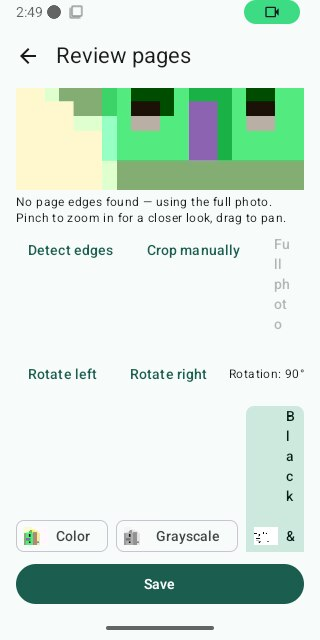
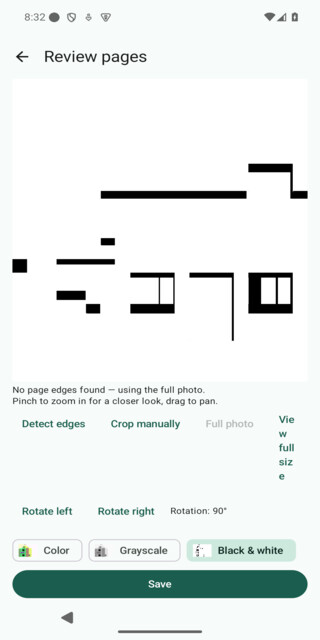
fix(review): show the selected filter in the crop preview
CropEditor's main preview only ever applied rotation, never the
page's selected filter — so choosing Grayscale or Black & white
changed the small filter-chip icon (keepsheet#49) but never the
large preview a person actually looks at, which stayed in color
regardless of what was picked. The saved PDF was always correct
(ImagesToPdf already applied the filter there); this was a preview-
only bug.

Applies to both the crop preview and the full-screen viewer (#67),
so the two stay consistent with each other and with what gets saved.

Fixes #70

diff --git a/android/app/src/main/java/com/github/tomasbjerre/keepsheet/ui/CropEditor.kt b/android/app/src/main/java/com/github/tomasbjerre/keepsheet/ui/CropEditor.kt
@@ -1,5 +1,6 @@
 package com.github.tomasbjerre.keepsheet.ui
 
+import android.graphics.Bitmap
 import android.net.Uri
 import androidx.compose.foundation.Canvas
 import androidx.compose.foundation.gestures.awaitEachGesture
@@ -29,8 +30,10 @@ import androidx.compose.ui.platform.testTag
 import androidx.compose.ui.unit.IntOffset
 import androidx.compose.ui.unit.IntSize
 import androidx.compose.ui.unit.dp
+import com.github.tomasbjerre.keepsheet.data.PageFilter
 import com.github.tomasbjerre.keepsheet.pdf.Corners
 import com.github.tomasbjerre.keepsheet.pdf.Point
+import com.github.tomasbjerre.keepsheet.pdf.applyFilter
 import com.github.tomasbjerre.keepsheet.pdf.applyRotation
 import com.github.tomasbjerre.keepsheet.pdf.decodeScaled
 import kotlinx.coroutines.Dispatchers
@@ -49,9 +52,10 @@ private const val GRAB_RADIUS_DP = 40
  * each corner can be dragged to adjust it. With null [corners] (nothing detected, or the
  * user chose the full photo) the whole photo is shown with no overlay.
  *
- * [rotationDegrees] (specs/capture-and-processing.md#page-rotation) is applied to the
- * preview itself, not just remembered — the whole point of showing it live here is that
- * what will be applied to the saved page is never a guess (keepsheet#52).
+ * [rotationDegrees] (specs/capture-and-processing.md#page-rotation) and [filter]
+ * (specs/capture-and-processing.md#document-filters) are both applied to the preview
+ * itself, not just remembered — the whole point of showing it live here is that what will
+ * be applied to the saved page is never a guess (keepsheet#52, keepsheet#70).
  *
  * Pinch-to-zoom and drag-to-pan (keepsheet#53) let a person inspect fine detail — e.g. whether
  * a filter choice keeps a photo on the page legible — without that detail being too small to
@@ -64,20 +68,23 @@ private const val GRAB_RADIUS_DP = 40
  * that changes what's being looked at) — a leftover zoomed-in viewport on a freshly shown image
  * would be confusing, not helpful.
  */
+@Suppress("LongMethod") // Compose screen: state hoisting keeps this one flat function readable.
 @Composable
 fun CropEditor(
     uri: Uri,
     corners: Corners?,
     rotationDegrees: Int,
+    filter: PageFilter,
     onCornersChange: (Corners) -> Unit,
     modifier: Modifier = Modifier,
 ) {
     val resolver = LocalContext.current.contentResolver
-    val image by produceState<ImageBitmap?>(null, uri, rotationDegrees) {
+    val image by produceState<ImageBitmap?>(null, uri, rotationDegrees, filter) {
         value =
             withContext(Dispatchers.IO) {
                 decodeScaled(resolver, uri, PREVIEW_MAX_SIDE)
                     ?.let { applyRotation(it, rotationDegrees) }
+                    ?.let { filtered(it, filter) }
                     ?.asImageBitmap()
             }
     }
@@ -225,4 +232,21 @@ private fun nearestCorner(
             }.orEmpty()
     val nearest = distances.indices.minByOrNull { distances[it] } ?: return -1
     return if (distances[nearest] <= maxDistance) nearest else -1
+}
+
+/** [PageFilter.COLOR] is a no-op (see [applyFilter]) — skip the pixel round-trip entirely
+ * for it rather than decode/re-encode a bitmap that ends up unchanged. Internal rather than
+ * private: [PhotoViewerDialog] reuses this same bitmap-filtering step. */
+internal fun filtered(
+    bitmap: Bitmap,
+    filter: PageFilter,
+): Bitmap {
+    if (filter == PageFilter.COLOR) return bitmap
+    val width = bitmap.width
+    val height = bitmap.height
+    val pixels = IntArray(width * height)
+    bitmap.getPixels(pixels, 0, width, 0, 0, width, height)
+    bitmap.recycle()
+    applyFilter(pixels, width, height, filter)
+    return Bitmap.createBitmap(pixels, width, height, Bitmap.Config.ARGB_8888)
 }

diff --git a/android/app/src/main/java/com/github/tomasbjerre/keepsheet/ui/PhotoViewer.kt b/android/app/src/main/java/com/github/tomasbjerre/keepsheet/ui/PhotoViewer.kt
@@ -37,6 +37,7 @@ import androidx.compose.ui.unit.IntSize
 import androidx.compose.ui.unit.dp
 import androidx.compose.ui.window.Dialog
 import androidx.compose.ui.window.DialogProperties
+import com.github.tomasbjerre.keepsheet.data.PageFilter
 import com.github.tomasbjerre.keepsheet.pdf.applyRotation
 import com.github.tomasbjerre.keepsheet.pdf.decodeScaled
 import kotlinx.coroutines.Dispatchers
@@ -51,24 +52,26 @@ private const val VIEWER_MAX_SIDE = 2000
  * keepsheet#67) — opened from [CropSection]'s "View full size" action. Same pinch-to-zoom
  * and drag-to-pan as [CropEditor]'s preview (reusing its pure [clampZoomScale]/
  * [clampPanOffset] math), but with no crop overlay and nothing to grab, so there's no risk
- * of moving a crop corner while just looking closely at a page. [rotationDegrees] matches
- * whatever's currently shown in the crop preview, so this is the exact same image, just
- * bigger — not a guess at what the saved page will look like.
+ * of moving a crop corner while just looking closely at a page. [rotationDegrees] and
+ * [filter] match whatever's currently shown in the crop preview, so this is the exact same
+ * image, just bigger — not a guess at what the saved page will look like.
  */
 @Composable
 fun PhotoViewerDialog(
     uri: Uri,
     rotationDegrees: Int,
+    filter: PageFilter,
     onDismiss: () -> Unit,
 ) {
     Dialog(onDismissRequest = onDismiss, properties = DialogProperties(usePlatformDefaultWidth = false)) {
         val resolver = LocalContext.current.contentResolver
         val image by
-            produceState<ImageBitmap?>(null, uri, rotationDegrees) {
+            produceState<ImageBitmap?>(null, uri, rotationDegrees, filter) {
                 value =
                     withContext(Dispatchers.IO) {
                         decodeScaled(resolver, uri, VIEWER_MAX_SIDE)
                             ?.let { applyRotation(it, rotationDegrees) }
+                            ?.let { filtered(it, filter) }
                             ?.asImageBitmap()
                     }
             }

diff --git a/android/app/src/main/java/com/github/tomasbjerre/keepsheet/ui/PageReviewScreen.kt b/android/app/src/main/java/com/github/tomasbjerre/keepsheet/ui/PageReviewScreen.kt
@@ -174,6 +174,7 @@ fun PageReviewScreen(
                     uri = pageOrder[selected],
                     corners = corners[selected],
                     rotationDegrees = rotations[selected],
+                    filter = filters[selected],
                     detecting = detecting,
                     onCornersChange = { corners = corners.toMutableList().also { list -> list[selected] = it } },
                     onRedetect = {
@@ -343,11 +344,13 @@ private fun redetect(
     scope.launch { onFound(withContext(Dispatchers.IO) { detectCornersInImage(resolver, uri) }) }
 }
 
+@Suppress("LongParameterList")
 @Composable
 private fun CropSection(
     uri: Uri,
     corners: Corners?,
     rotationDegrees: Int,
+    filter: PageFilter,
     detecting: Boolean,
     onCornersChange: (Corners?) -> Unit,
     onRedetect: () -> Unit,
@@ -359,6 +362,7 @@ private fun CropSection(
             uri = uri,
             corners = corners,
             rotationDegrees = rotationDegrees,
+            filter = filter,
             onCornersChange = { onCornersChange(it) },
         )
         Text(
@@ -385,7 +389,12 @@ private fun CropSection(
         RotateControls(rotationDegrees = rotationDegrees, onRotate = onRotate)
     }
     if (showViewer) {
-        PhotoViewerDialog(uri = uri, rotationDegrees = rotationDegrees, onDismiss = { showViewer = false })
+        PhotoViewerDialog(
+            uri = uri,
+            rotationDegrees = rotationDegrees,
+            filter = filter,
+            onDismiss = { showViewer = false },
+        )
     }
 }
 

diff --git a/android/app/src/androidTest/java/com/github/tomasbjerre/keepsheet/ScreenshotTest.kt b/android/app/src/androidTest/java/com/github/tomasbjerre/keepsheet/ScreenshotTest.kt
@@ -110,7 +110,9 @@ class ScreenshotTest {
         // Not a numbered Play listing slot — documents the full-screen photo viewer
         // (specs/ui-flows.md#3-page-review, keepsheet#67): read-only, no crop overlay.
         composeRule.onNodeWithText("View full size").performScrollTo().performClick()
-        composeRule.onNodeWithTag(PHOTO_VIEWER_TEST_TAG).assertExists()
+        // Filtering the (larger, full-screen-sized) image takes longer than the crop
+        // preview's own smaller one — wait for it rather than a fixed assertExists().
+        awaitTagCount(PHOTO_VIEWER_TEST_TAG, 1)
         screenshot("page-review-viewer")
         composeRule.onNodeWithContentDescription("Close").performClick()
         composeRule.waitForIdle()

diff --git a/android/app/src/androidTest/java/com/github/tomasbjerre/keepsheet/PageReviewScreenTest.kt b/android/app/src/androidTest/java/com/github/tomasbjerre/keepsheet/PageReviewScreenTest.kt
@@ -80,7 +80,11 @@ class PageReviewScreenTest {
         importTwoSamplePages()
 
         composeRule.onNodeWithText("View full size").performScrollTo().performClick()
-        composeRule.onNodeWithTag(PHOTO_VIEWER_TEST_TAG).assertExists()
+        // Filtering the (larger, full-screen-sized) image takes longer than the crop
+        // preview's own smaller one — wait for it rather than a fixed assertExists().
+        composeRule.waitUntil(timeoutMillis = TIMEOUT_MILLIS) {
+            composeRule.onAllNodesWithTag(PHOTO_VIEWER_TEST_TAG).fetchSemanticsNodes().isNotEmpty()
+        }
 
         composeRule.onNodeWithContentDescription("Close").performClick()
         composeRule.onNodeWithTag(PHOTO_VIEWER_TEST_TAG).assertDoesNotExist()

diff --git a/specs/ui-flows.md b/specs/ui-flows.md
@@ -78,7 +78,9 @@ Reached from Capture's Done action, or directly from Home's Import.
   reviewed (see [Capture & Processing](capture-and-processing.md#document-filters)).
 - A rotate control for the currently selected page (see
   [Capture & Processing](capture-and-processing.md#page-rotation)),
-  visible immediately in that page's crop preview.
+  visible immediately in that page's crop preview — like the chosen
+  filter (above), so what the crop preview shows always matches what
+  will actually be saved, not just the original color photo.
 - The crop preview supports pinch-to-zoom and drag-to-pan, so fine detail
   (e.g. whether a filter choice keeps a photo on the page legible) can be
   inspected up close rather than only at the preview's normal size.
